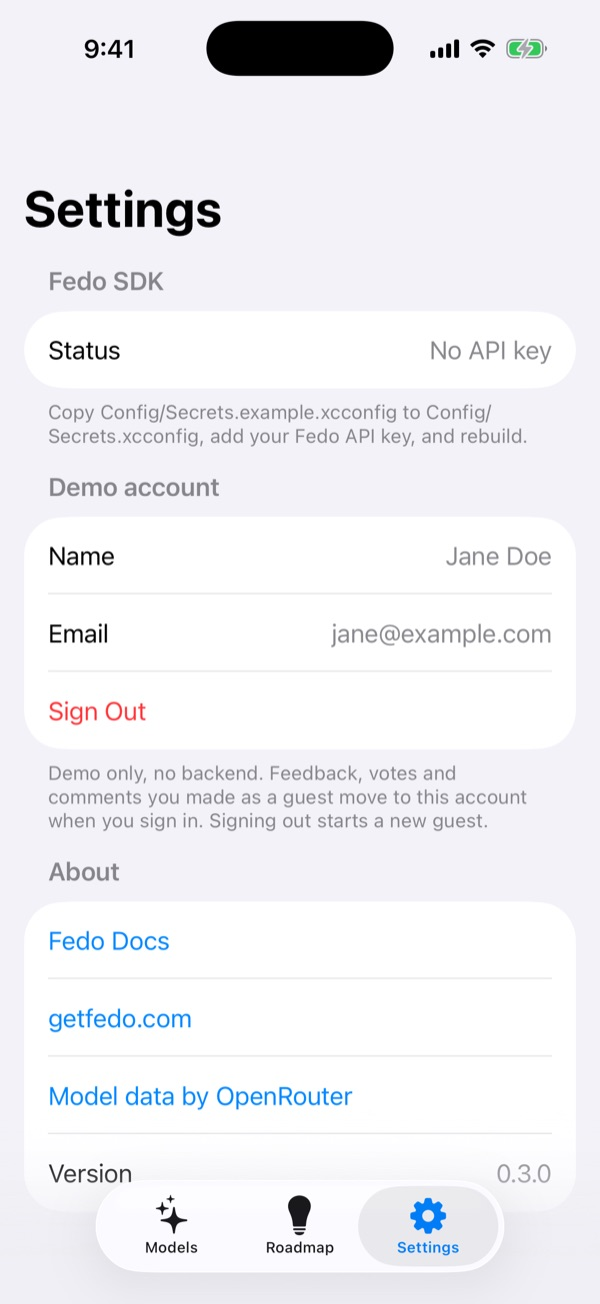
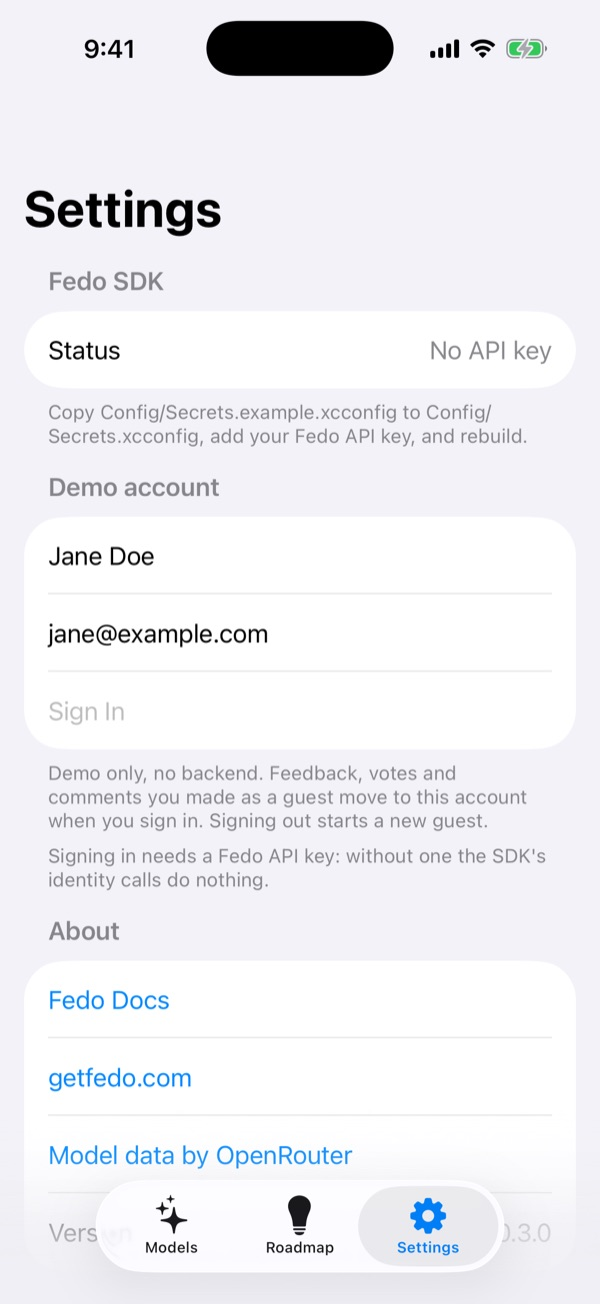
docs: record post-0.3.0 fixes and refresh the Settings screenshot
CHANGELOG Unreleased now lists the review-driven fixes and CI guards.
The screenshot shows the current no-key state, where Sign In is disabled.

Refs: fedo-ios-example-jb8

diff --git a/CHANGELOG.md b/CHANGELOG.md
@@ -9,10 +9,26 @@ Each release notes the FedoKit version it targets.
 
 ## [Unreleased]
 
+### Added
+
+- A Refresh button on the empty state: a list with no rows cannot bounce, so pull to refresh was never available there and the message no longer suggests it.
+- CI fails the build when `Config/Base.xcconfig` carries a non-empty `FEDO_API_KEY`, or when `Config/Secrets.xcconfig` is tracked at all.
+
 ### Changed
 
 - FedoKit is pinned to `0.4.0-beta.1` (was `0.3.0-beta.1`).
 - Renamed for FedoKit `0.4.0-beta.1`: the feedback board view `FeedbacksView` is now `FedoFeedbackView`, and the submission sheet modifier `.presentCreateFeedback(isPresented:)` is now `.presentFedoCreateFeedback(isPresented:)`.
+- Provider grouping and search moved out of the view into a `ModelFilter` type, covered by unit tests.
+- CI treats warnings as errors and picks an available iPhone simulator at run time instead of pinning a device model.
+- `Config/Secrets.example.xcconfig` points at the Fedo dashboard at `https://app.getfedo.com`, and the bug report form asks for FedoKit `0.4.0-beta.1`.
+
+### Fixed
+
+- Demo sign-in is disabled without a Fedo API key, where the SDK's identity calls would silently do nothing.
+- Only one models load runs at a time, so the initial load, pull to refresh and Retry no longer race each other.
+- The provider filter keeps working after a refresh that renames or drops a provider, because it now stores a stable provider ID.
+- Prices below a cent show as `<$0.01` instead of `$0`.
+- The "Fedo not initialized" hint prints only in Debug builds.
 
 ## [0.3.0] - 2026-09-15
 
